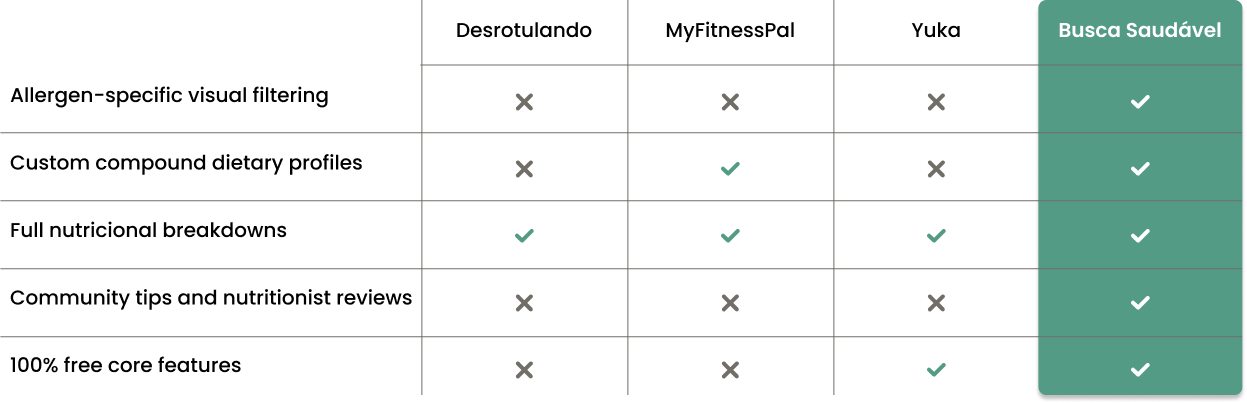
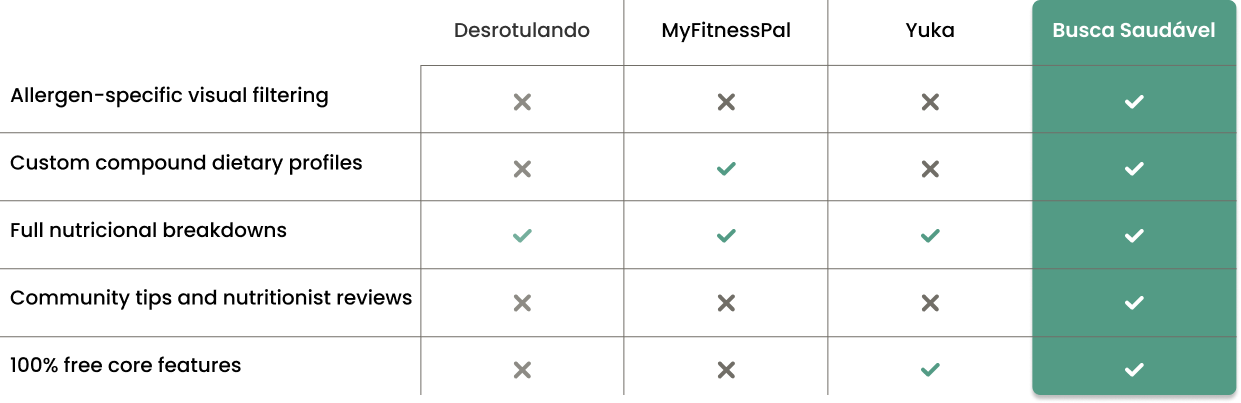
Finished busca saudavel project page

diff --git a/src/pages/ProjectCaseStudy/styles.ts b/src/pages/ProjectCaseStudy/styles.ts
@@ -19,7 +19,7 @@ export const PageEmpathy = styled.main`
 `;
 
 export const BackLink = styled(Link)`
-  font-size: 14px;
+  font-size: 16px;
   color: ${({ theme }) => theme.colors.accentStrong};
   text-decoration: none;
 
@@ -64,15 +64,15 @@ export const Description = styled.p`
 `;
 
 export const HeroVisual = styled.div`
-  display:flex;
-  justify-content:center;
-  align-items:center;
+  display: flex;
+  justify-content: center;
+  align-items: center;
   
-  img{
-   width:100%;
-   max-width:520px;
-   height:auto;
-   display:block;
+  img {
+   width: 100%;
+   max-width: 520px;
+   height: auto;
+   display: block;
   }
 `;
 
@@ -92,7 +92,7 @@ export const SideNav = styled.nav`
   align-self: start;
   display: flex;
   flex-direction: column;
-  gap: 12px;
+  gap: 18px;
 
   a {
     font-size: 14px;
@@ -112,11 +112,11 @@ export const SideNav = styled.nav`
 export const Content = styled.div`
   display: flex;
   flex-direction: column;
-  gap: 64px;
+  gap: 50px;
 `;
 
 export const Section = styled.section`
-  scroll-margin-top: 96px;
+  scroll-margin-top: 110x;
 
   h2 {
     font-size: 32px;
@@ -159,37 +159,37 @@ export const MetricCard = styled.div`
 
 export const Image = styled.div`
   margin-top: 32px;
-//   min-height: 520px;
   border-radius: 28px;
   display: flex;
   align-items: center;
-  justify-content: center;
+  justify-content: flex-start;
   color: ${({ theme }) => theme.colors.textSecondary};
+  //   min-height: 520px;
 `;
 
 export const CaseFooter = styled.section`
-  margin-top:140px;
-  padding-top:72px;
-  border-top:1px solid ${({theme}) => theme.colors.borderSoft};
+  margin-top: 40px;
+  padding-top: 72px;
+  border-top: 1px solid ${({theme}) => theme.colors.borderSoft};
   
-  display:flex;
-  flex-direction:column;
-  align-items:center;
-  text-align:center;
-  gap:28px;
+  display: flex;
+  flex-direction: column;
+  align-items: center;
+  text-align: center;
+  gap: 28px;
   
-  h3{
-   font-size:24px;
-   margin:0 0 20px;
+  h3 {
+   font-size: 24px;
+   margin: 0 0 20px;
    font-weight: 500;
-   letter-spacing:-0.03em;
+   letter-spacing: -0.03em;
   }
   
-  div{
-   display:flex;
-   gap:16px;
-   flex-wrap:wrap;
-   justify-content:center;
+  div {
+   display: flex;
+   gap: 16px;
+   flex-wrap: wrap;
+   justify-content: center;
   }
 `;
 
@@ -224,4 +224,34 @@ export const FooterButton = styled(Link)<{variant?: "primary" | "secondary";}>`
   &:hover{
    transform:translateY(-2px);
   }
+`;
+
+export const Blocks = styled.div`
+  display: flex;
+  flex-direction: column;
+  gap: 48px;
+`;
+
+export const Block = styled.div`
+  display: flex;
+  flex-direction: column;
+  gap: 0px;
+  p {
+   margin: 0;
+  }
+  
+  p + p {
+   margin-top: 16px;
+  }
+`;
+
+export const ExternalLink = styled.a`
+font-size: 16px;
+margin-top: 10px;
+color:${({theme})=>theme.colors.accentStrong};
+text-decoration:none;
+
+&:hover{
+ text-decoration:underline;
+}
 `;

diff --git a/src/data/caseStudies.ts b/src/data/caseStudies.ts
@@ -1,7 +1,7 @@
 export const caseStudies = {
     buscasaudavel: {
         hero: {
-            title: "Busca Saudável",
+            title: "Busca Saudável (Healthy Search)",
             role: "UX/UI Designer • Frontend Developer",
             year: "2023",
             duration: "10 months",
@@ -27,74 +27,81 @@ export const caseStudies = {
             {
                 title: "Problem",
                 text:
-                    "Users with dietary restrictions face information overload, unclear labels and low confidence when choosing food products. The challenge was reducing cognitive effort while increasing trust and speed in decision making."
+                    "Users with dietary restrictions struggle to quickly identify safe food products due to fragmented information, unclear labeling and lack of effective filtering tools. This creates a high cognitive load and low confidence during decision making. The challenge was to simplify product discovery by improving clarity, personalization and speed, enabling safer and more efficient choices."
             },
-
             {
                 title: "Research & Discovery",
-                image: "/images/busca-saudavel/benchmarking.png",
-                text:
-                    "Research included competitor benchmarking, interviews and pain point mapping to understand frustrations around food safety, filtering and nutritional transparency."
+                blocks: [
+                    {
+                        text:"To align assumptions and identify key uncertainties, I started with a CSD matrix (Certainties, Suppositions and Doubts). This helped structure initial hypotheses around user behavior, food safety concerns and information gaps, guiding what needed validation during research.",
+                        image:"/images/busca-saudavel/CSD-matrix.png"
+                    },
+                    {
+                        text:"I then conducted competitor benchmarking to analyze how existing platforms handle food search, filtering and nutritional transparency. This revealed gaps in personalization, clarity of information and efficiency, reinforcing the need for a more intuitive and user-centered experience.",
+                        image:"/images/busca-saudavel/benchmarking.png"
+                    }
+                ]
             },
-
             {
                 title: "Target Audience",
                 image: "/images/busca-saudavel/users.png",
                 text:
                     "Three primary audiences were identified: consumers with allergies/following specific diets, nutrition professionals and conscious companies looking to promote their products."
             },
-
             {
                 title: "Key Insights",
                 image: "/images/busca-saudavel/insights.png",
                 text:
                     "Research showed that speed, personalization, immediate feedback and clarity of information were critical to building user trust."
             },
-
             {
                 title: "User Journey",
                 image: "/images/busca-saudavel/journey.png",
                 text:
                     "The core journey was mapped across search, filtering, product evaluation and favorites, simplifying the decision process."
             },
-
             {
                 title: "Information Architecture",
                 image: "/images/busca-saudavel/architecture.png",
                 text:
                     "A scalable structure was created to organize products, filters, nutritional data, educational content and personalized preferences."
             },
-
             {
                 title: "Wireframes",
                 image: "/images/busca-saudavel/wireframes.png",
                 text:
                     "Low fidelity exploration focused on usability, layout hierarchy and reducing friction before moving into high fidelity design."
             },
-
             {
                 title: "Design System",
                 image: "/images/busca-saudavel/design-system.png",
                 text:
                     "A lightweight design system was created with reusable components, visual consistency and accessibility in mind."
             },
-
+            {
+                title: "Branding & Visual Identity",
+                image: "/images/busca-saudavel/logo.png",
+                text: "The visual identity was designed to communicate clarity, trust and health. The logo combines a magnifying glass with a leaf, reinforcing the idea of searching for healthy and safe food choices. Soft green tones were selected to convey freshness and well-being, while maintaining a clean and accessible visual language across the product. The symbol bridges search and nutrition, aligning the brand with the product’s core functionality."
+            },
             {
                 title: "Final Solution",
-                image: "mockups-placeholder",
-                text:
-                    "The final responsive web product combines personalized food discovery, custom filters, nutritional analysis, educational tips and community-driven feedback."
+                blocks: [
+                    {
+                        text:"The product evolved from early wireframes to high fidelity interfaces and final implementation. The process focused on translating user needs into scalable UI components and a functional product experience.",
+                        image:"/images/busca-saudavel/process-timeline.png"
+                    },
+                    {
+                        text: "The final responsive web product combines personalized food discovery, custom filters, nutritional analysis, educational tips and community-driven feedback.",
+                        image: "/images/busca-saudavel/final-solution.png",
+                    }
+                ]
             },
-
             {
                 title: "Impact",
+                image: "/images/busca-saudavel/impact.png",
                 text:
                     "The project demonstrated how user-centered design can transform a complex and anxiety-driven task into a simpler, more trustworthy experience."
             },
-            // {
-            //     title:"Design Decisions",
-            //     text:"Used progressive disclosure..."    
-            // },
 
             // {
             //     title:"Challenges & Tradeoffs",
@@ -110,7 +117,8 @@ export const caseStudies = {
             //     title:"Key Learnings",
             //     text:"Trust is shaped as much by IA as UI."
             // }
-        ]
+        ],
+        behanceUrl: "https://www.behance.net/gallery/248123099/Busca-Saudavel-The-Nutrition-Label-UIUX-Case-Study"
     },
     
     timecurrencyapp: {

diff --git a/src/data/projects.ts b/src/data/projects.ts
@@ -14,31 +14,8 @@ export type Project = {
 
 export const projects: Project[] = [
   {
-    id: "blizzard",
-    name: "Blizzard – Energy Monitoring & Control System",
-    role: "Frontend Developer",
-    description:
-      "Web-based system for monitoring and controlling electrical devices and energy consumption in a university environment.",
-    techStack: [
-      "JavaScript",
-      "Web Dashboards",
-      "IoT Integration",
-      "Figma",
-      "Node JS",
-      "MongoDB",
-      "Data Visualization"
-    ],
-    details: [
-      "Displayed real-time and historical energy consumption through dynamic data visualizations.",
-      "Enabled remote control of electrical devices (on/off) via the web system.",
-      "Implemented automated scheduling to optimize energy usage and reduce waste."
-    ],
-    githubUrl: "https://github.com/ThamiStoppelli/blizzard-front-end",
-    figmaUrl: "https://www.figma.com/proto/NB1BU9XnDSsBuZ4aR1SvAt/Blizzard--Copy---Copy-?page-id=47%3A3&node-id=67-12&p=f&viewport=71%2C126%2C0.02&t=DfPJfOTiqIF9q70m-1&scaling=min-zoom&content-scaling=fixed&starting-point-node-id=67%3A12"
-  },
-  {
     id: "buscasaudavel",
-    name: "Healthy Search – Food Search & Nutrition Platform",
+    name: "Busca Saudável (Healthy Search) – Food Search & Nutrition Platform",
     role: "UI/UX Designer & Frontend Developer", 
     description:
       "Web and mobile platform for searching food products based on nutritional composition, allergens and dietary restrictions.",
@@ -79,6 +56,29 @@ export const projects: Project[] = [
     ],
     githubUrl: "https://github.com/ThamiStoppelli/Time-Currency-App",
     //add video
+  },
+  {
+    id: "blizzard",
+    name: "Blizzard – Energy Monitoring & Control System",
+    role: "Frontend Developer",
+    description:
+      "Web-based system for monitoring and controlling electrical devices and energy consumption in a university environment.",
+    techStack: [
+      "JavaScript",
+      "Web Dashboards",
+      "IoT Integration",
+      "Figma",
+      "Node JS",
+      "MongoDB",
+      "Data Visualization"
+    ],
+    details: [
+      "Displayed real-time and historical energy consumption through dynamic data visualizations.",
+      "Enabled remote control of electrical devices (on/off) via the web system.",
+      "Implemented automated scheduling to optimize energy usage and reduce waste."
+    ],
+    githubUrl: "https://github.com/ThamiStoppelli/blizzard-front-end",
+    figmaUrl: "https://www.figma.com/proto/NB1BU9XnDSsBuZ4aR1SvAt/Blizzard--Copy---Copy-?page-id=47%3A3&node-id=67-12&p=f&viewport=71%2C126%2C0.02&t=DfPJfOTiqIF9q70m-1&scaling=min-zoom&content-scaling=fixed&starting-point-node-id=67%3A12"
   },
   {
     id: "cuidarpsi",

diff --git a/src/pages/ProjectCaseStudy/index.tsx b/src/pages/ProjectCaseStudy/index.tsx
@@ -90,20 +90,48 @@ export default function ProjectCaseStudy() {
             return (
               <S.Section key={section.title} id={id}>
                 <h2>{section.title}</h2>
+                
+                {section.blocks ? (
+                    <S.Blocks>
+                        {section.blocks?.map((block, index) => (
+                            <S.Block key={index}>
 
-                {section.text && <p>{section.text}</p>}
+                            {block.text && <p>{block.text}</p>}
 
-                {section.image && (
-                  <S.Image>
-                    <img
-                        src={section.image}
-                        alt={section.title}
-                    />
-                  </S.Image>
+                            {block.image && (
+                                <S.Image>
+                                <img src={block.image} alt={section.title} />
+                                </S.Image>
+                            )}
+
+                            </S.Block>
+                        ))}
+                    </S.Blocks>
+                    ) : (
+                    <>
+                        {section.text && <p>{section.text}</p>}
+
+                        {section.image && (
+                        <S.Image>
+                            <img src={section.image} alt={section.title} />
+                        </S.Image>
+                        )}
+                    </>
                 )}
               </S.Section>
             );
           })}
+
+          {study.behanceUrl ? (
+            <S.ExternalLink 
+                href={study.behanceUrl}
+                target="_blank"
+            >
+                View full case study on Behance →
+            </S.ExternalLink>
+          ) : (
+            <p></p>
+          )}
         </S.Content>
       </S.Layout>
       <S.CaseFooter>

diff --git a/src/styles/GlobalStyle.ts b/src/styles/GlobalStyle.ts
@@ -36,4 +36,8 @@ export const GlobalStyle = createGlobalStyle`
     background: ${({ theme }) => theme.colors.accent};
     color: #fff;
   }
+
+  html {
+    scroll-behavior: smooth;
+  }
 `;